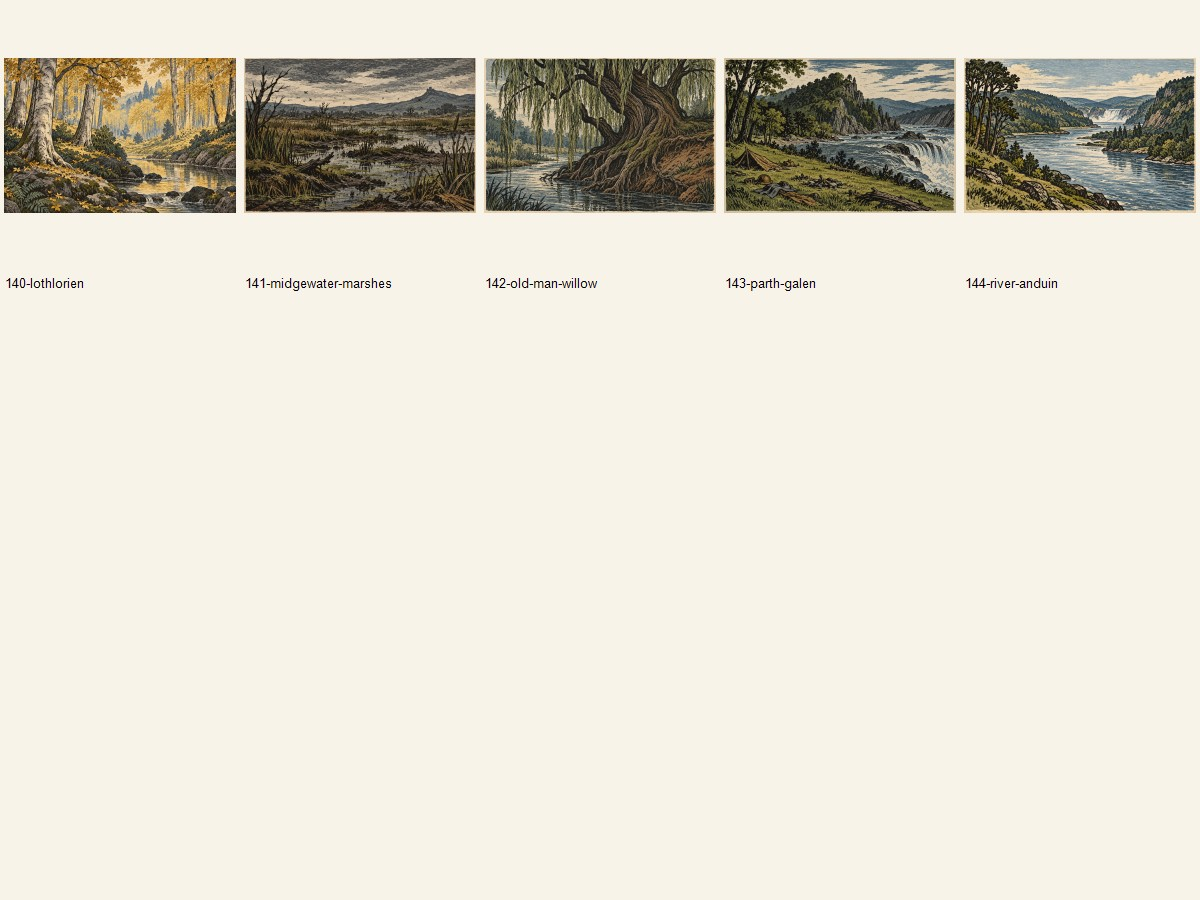
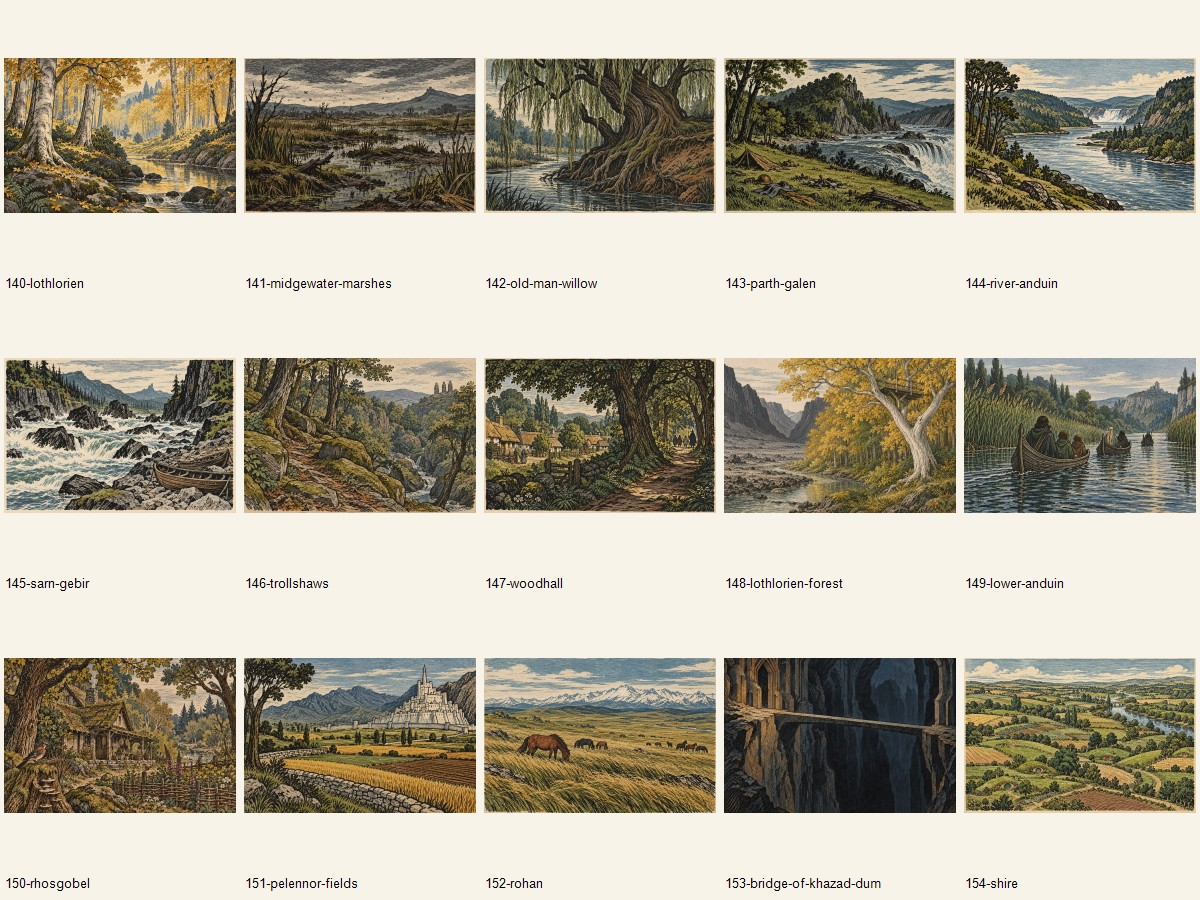
Add 10 more book-based Tolkien locations

diff --git a/scripts/lotr-two-books-art/PROGRESS.md b/scripts/lotr-two-books-art/PROGRESS.md
@@ -11,14 +11,14 @@ Work on both books together. Reuse art for the same subject across books, but ne
 ## Inventory and progress
 
 - `manifest.json` lists 217 distinct original illustrations for 389 cover, character, item and location slots: 173 Fellowship and 216 Two Towers. Exactly 172 illustrations are shared across books. Book-specific extras are one Fellowship cover and 44 Two Towers subjects.
-- 145 final images are accepted, registered, and converted to JPEG: assets 001-144 and 174. The PNG masters are ignored by Git. 72 assets remain pending.
+- 155 final images are accepted, registered, and converted to JPEG: assets 001-154 and 174. The PNG masters are ignored by Git. 62 assets remain pending.
 - `make-contact-sheets.ps1` produces category sheets for visual review; the first cover and character sheets were generated and inspected.
 - The accepted Fellowship cover depicts Tom Bombadil guiding the four hobbits from the Old Forest, a book scene omitted by the films. The accepted Two Towers cover depicts Faramir speaking to Frodo and Sam in Henneth Annûn. Accepted shared art includes a distinctly non-film Aragorn, Arwen, a shadow-and-flame Balrog without film horns or wings, and Barliman Butterbur.
 - An earlier Fellowship cover with a nine-person lineup, an earlier Aragorn that resembled the film actor, a multi-pose Boromir, a blond film-like Legolas, an eye-shaped Sauron, and initial Erestor, Glóin, and Saruman variants with film-like Council or character imagery were rejected and are not part of the registered assets.
 - The `.pwk` files contain 69 and 104 linked image blobs. The companion `.pwb` bundles contain 80 and 66 embedded blobs, including 14 map blobs in each. Many apparent missing references resolve through `.pwb`. The artwork task will replace all linked and embedded non-map art; preserve the functional map bundles. Two map layers in each book reuse a map image for navigation overlays; the no-repeat rule is enforced on cover, character, item and location illustrations.
 - A trial set of schematic SVG maps was discarded after discovering the embedded maps. No map replacements are pending.
 - `import-art.mjs` is prepared but intentionally refuses to run until all 217 approved JPEGs exist. It will import unique image refs per book, keep the map-only PWB, archive old blob metadata, update the catalogue, and correct Fellowship's `Endoras` typo to `Edoras`.
-- `validate.mjs` checks the checkpoint now and will check final art URL/hash uniqueness, map resolution, source removal, and catalogue sizes after import. Current checkpoint validation passes at 145/217.
+- `validate.mjs` checks the checkpoint now and will check final art URL/hash uniqueness, map resolution, source removal, and catalogue sizes after import. Current checkpoint validation passes at 155/217.
 
 ## Next actions
 
